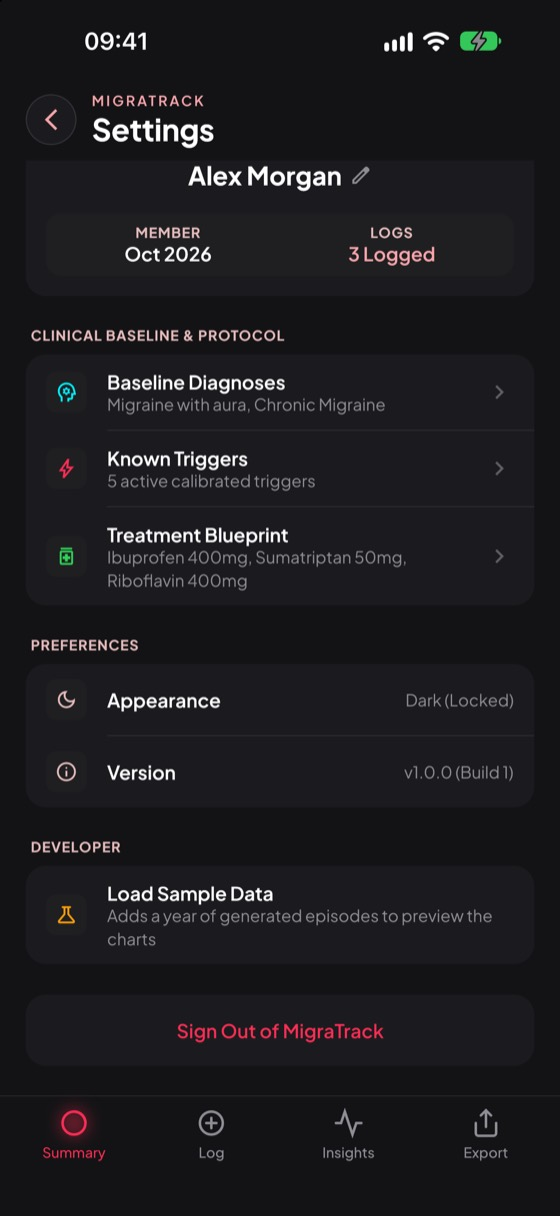
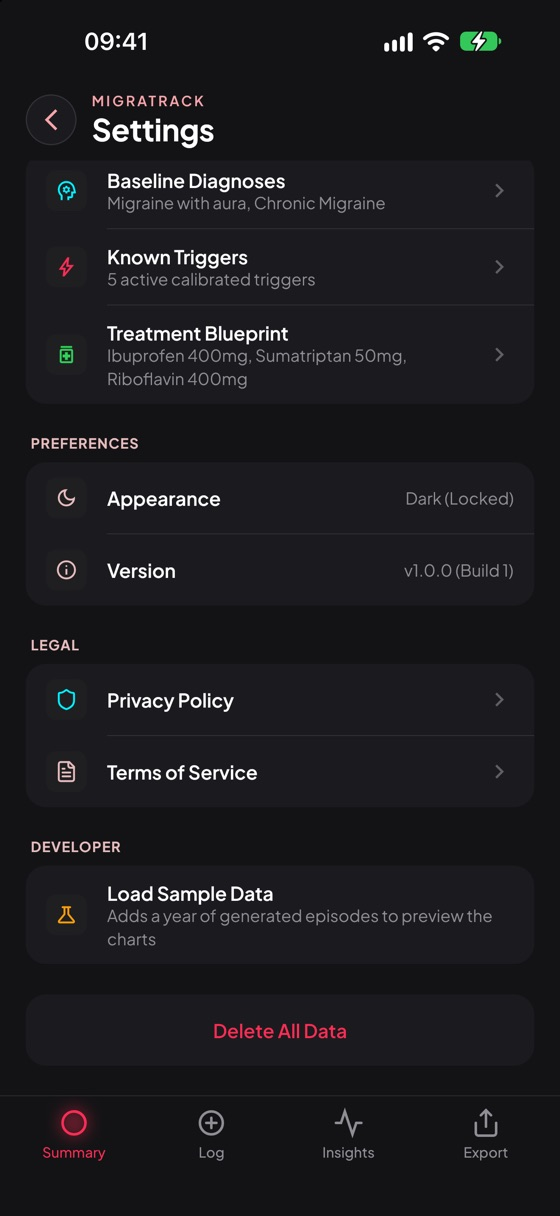
Rename the Sign Out button in Settings to Delete All Data
The app has no accounts, so the button only erases the data on this iPhone. The confirmation alert, the Privacy Policy, the README and the user journey now use the same term.

diff --git a/docs/user-journey/index.html b/docs/user-journey/index.html
@@ -383,14 +383,14 @@ dialog p { color: #f4f1f2; text-align: center; font-size: 14px; margin-top: 10px
         <span class="device phone">iPhone</span>
         <h2>Управление приступом и профилем</h2>
         <p>Тап по Last Event открывает системный лист удаления. Settings сводит профиль: дату регистрации, число логов, диагнозы, 5 триггеров и препараты.</p>
-        <p>Имя вводится в системном алерте и попадает в отчёт. Sign Out предупреждает, что данные есть только на этом iPhone, и удаляет их после подтверждения. В тесте я нажал Cancel.</p>
+        <p>Имя вводится в системном алерте и попадает в отчёт. Delete All Data предупреждает, что данные есть только на этом iPhone, и удаляет их после подтверждения. В тесте я нажал Cancel.</p>
       </div>
       <div class="shots">
         <figure><button class="shot" type="button"><img src="img/p20-delete-episode-sheet.jpg" alt="Лист удаления приступа" loading="lazy" width="560" height="1216"></button><figcaption>Удаление приступа</figcaption></figure>
         <figure><button class="shot" type="button"><img src="img/p21-settings.jpg" alt="Settings: профиль и базовые параметры" loading="lazy" width="560" height="1216"></button><figcaption>Settings</figcaption></figure>
         <figure><button class="shot" type="button"><img src="img/p22-name-prompt.jpg" alt="Алерт ввода имени Alex Morgan" loading="lazy" width="560" height="1216"></button><figcaption>Ввод имени</figcaption></figure>
-        <figure><button class="shot" type="button"><img src="img/p23-settings-bottom.jpg" alt="Профиль Alex Morgan и кнопка Sign Out" loading="lazy" width="560" height="1216"></button><figcaption>Имя в профиле, Load Sample Data</figcaption></figure>
-        <figure><button class="shot" type="button"><img src="img/p24-sign-out-alert.jpg" alt="Алерт Sign Out of MigraTrack" loading="lazy" width="560" height="1216"></button><figcaption>Подтверждение Sign Out</figcaption></figure>
+        <figure><button class="shot" type="button"><img src="img/p23-settings-bottom.jpg" alt="Нижняя часть Settings: Legal, Load Sample Data и кнопка Delete All Data" loading="lazy" width="560" height="1216"></button><figcaption>Legal, Load Sample Data, Delete All Data</figcaption></figure>
+        <figure><button class="shot" type="button"><img src="img/p24-delete-data-alert.jpg" alt="Алерт Delete All Data" loading="lazy" width="560" height="1216"></button><figcaption>Подтверждение Delete All Data</figcaption></figure>
       </div>
     </article>
 

diff --git a/composeApp/src/commonMain/kotlin/com/migratrack/app/feature/settings/SettingsScreen.kt b/composeApp/src/commonMain/kotlin/com/migratrack/app/feature/settings/SettingsScreen.kt
@@ -96,12 +96,12 @@ class SettingsViewModel(private val graph: AppGraph) : ViewModel() {
         graph.profiles.saveUser(user.copy(name = name.trim()))
     }
 
-    /** No account exists on a server, so signing out erases this device's data and restarts onboarding. */
-    fun signOut() = viewModelScope.launch {
+    /** Erases the data on this device and restarts onboarding. The app has no account server, so no other copy exists. */
+    fun deleteAllData() = viewModelScope.launch {
         val confirmed = graph.services.dialogs.confirm(
-            title = "Sign Out of MigraTrack?",
-            message = "MigraTrack keeps your data only on this iPhone. Signing out permanently deletes every episode and your baseline profile. Export a report first if you need it.",
-            confirmTitle = "Delete Data and Sign Out",
+            title = "Delete All Data?",
+            message = "MigraTrack keeps your data only on this iPhone. This permanently deletes every episode and your baseline profile. Export a report first if you need it.",
+            confirmTitle = "Delete All Data",
             destructive = true,
         )
         if (confirmed) graph.services.store.eraser.eraseAll()
@@ -159,10 +159,10 @@ fun SettingsScreen(onBack: () -> Unit, onEditBaseline: (step: Int) -> Unit, onOp
                 .heightIn(min = 56.dp)
                 .clip(RoundedCornerShape(MtRadius.lg))
                 .background(MtColors.Card)
-                .pressable(pressedScale = 1f, onClick = viewModel::signOut),
+                .pressable(pressedScale = 1f, onClick = viewModel::deleteAllData),
             contentAlignment = Alignment.Center,
         ) {
-            MtText("Sign Out of MigraTrack", MtTheme.type.bodyStrong, color = MtColors.Pink)
+            MtText("Delete All Data", MtTheme.type.bodyStrong, color = MtColors.Pink)
         }
     }
 }

diff --git a/composeApp/src/commonMain/kotlin/com/migratrack/app/feature/legal/LegalScreen.kt b/composeApp/src/commonMain/kotlin/com/migratrack/app/feature/legal/LegalScreen.kt
@@ -68,7 +68,7 @@ enum class LegalDocument(val title: String, val sections: List<LegalSection>) {
             ),
             LegalSection(
                 "Delete your data",
-                "Settings › Sign Out of MigraTrack permanently deletes all MigraTrack data on this iPhone. When you delete the app, its data is deleted too.",
+                "Settings › Delete All Data permanently deletes all MigraTrack data on this iPhone. When you delete the app, its data is deleted too.",
             ),
             LegalSection(
                 "Changes",

diff --git a/shared/domain/src/commonMain/kotlin/com/migratrack/domain/repository/Repositories.kt b/shared/domain/src/commonMain/kotlin/com/migratrack/domain/repository/Repositories.kt
@@ -60,7 +60,7 @@ interface CatalogRepository {
     suspend fun addCustomMedication(name: String, dose: String, role: MedicationRole): Medication
 }
 
-/** Deletes every record on this device. Sign out uses it because the app has no account server. */
+/** Deletes every record on this device. Delete All Data uses it because the app has no account server. */
 fun interface LocalDataEraser {
     suspend fun eraseAll()
 }

diff --git a/composeApp/src/commonMain/kotlin/com/migratrack/app/App.kt b/composeApp/src/commonMain/kotlin/com/migratrack/app/App.kt
@@ -46,7 +46,7 @@ fun App(graph: AppGraph) {
 sealed interface RootState {
     data object Loading : RootState
 
-    /** [session] changes each time onboarding starts again, for example after sign out. */
+    /** [session] changes each time onboarding starts again, for example after the user deletes all data. */
     data class Onboarding(val session: Int) : RootState
     data object Ready : RootState
 }

diff --git a/README.md b/README.md
@@ -134,7 +134,7 @@ Additions that the screens imply but do not show:
 - **Log a past episode.** Tap an empty day in the calendar, or change **Episode Start** at the bottom of the Log Episode form. The row opens the system date picker. The screens have no time field, but the calendar logs on past days and edits old episodes, so the form needs one.
 - **Move between months.** Swipe the calendar grid sideways, or tap the month title for month and year wheels.
 - **Edit your name.** Tap the name on the Settings profile card. The avatar shows initials, not a photo.
-- **Sign out.** No account server exists, so Sign Out erases the data on this iPhone after a confirmation. The welcome screen then shows again.
+- **Delete all data.** No account server exists, so Delete All Data in Settings erases the data on this iPhone after a confirmation. The welcome screen then shows again.
 - **Sleep from Apple Health.** The Sleep card reads last night's stages from HealthKit. The simulator has no sleep data unless you add some in the Health app.
 
 ## Known limits
